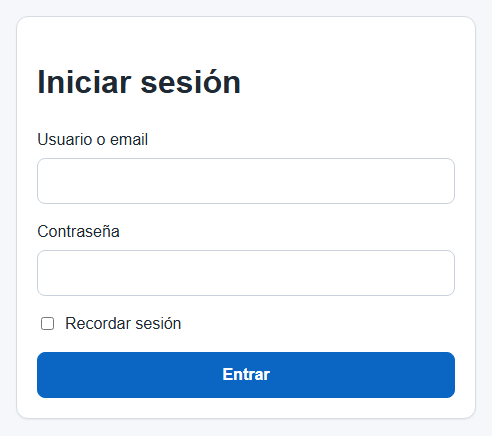
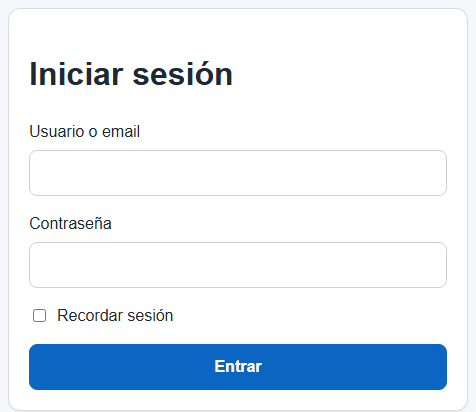
Tighten README screenshot framing

diff --git a/07_react-fundamentos/02_final_test/README.md b/07_react-fundamentos/02_final_test/README.md
@@ -1,7 +1,7 @@
 # Final React Fundamentals Project
 
 <p align="center">
-  <img src="00_images/screenshots/products-list-current.png" alt="Products dashboard and filters" width="90%">
+  <img src="00_images/screenshots/products-list-current.png" alt="Products dashboard and filters" width="86%">
 </p>
 
 <p align="center">
@@ -62,19 +62,19 @@ The main behavior is:
 ### Login
 
 <p align="center">
-  <img src="00_images/screenshots/login-page-current.png" alt="Login page" width="72%">
+  <img src="00_images/screenshots/login-page-current.png" alt="Login page" width="48%">
 </p>
 
 ### Product Detail
 
 <p align="center">
-  <img src="00_images/screenshots/product-detail-current.png" alt="Product detail page" width="90%">
+  <img src="00_images/screenshots/product-detail-current.png" alt="Product detail page" width="86%">
 </p>
 
 ### New Product Form
 
 <p align="center">
-  <img src="00_images/screenshots/new-product-form-current.png" alt="New product form" width="90%">
+  <img src="00_images/screenshots/new-product-form-current.png" alt="New product form" width="86%">
 </p>
 
 ---

diff --git a/07_react-fundamentos/README.md b/07_react-fundamentos/README.md
@@ -1,7 +1,7 @@
 # React Fundamentals
 
 <p align="center">
-  <img src="00_images/react-fundamentos-overview-current.png" alt="React Fundamentals module overview" width="950">
+  <img src="00_images/react-fundamentos-overview-current.png" alt="React Fundamentals module overview" width="86%">
 </p>
 
 <p align="center">
